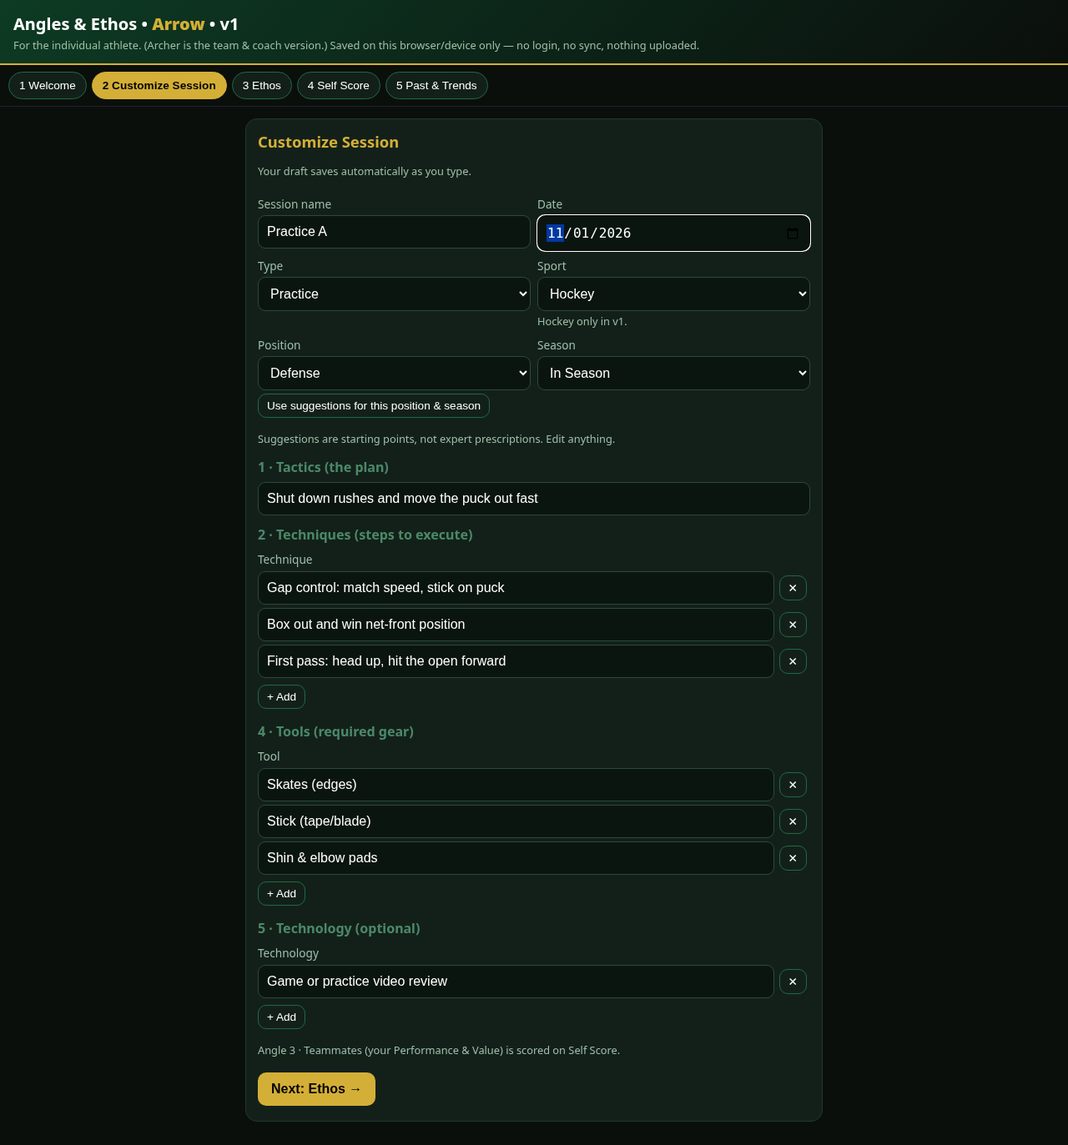
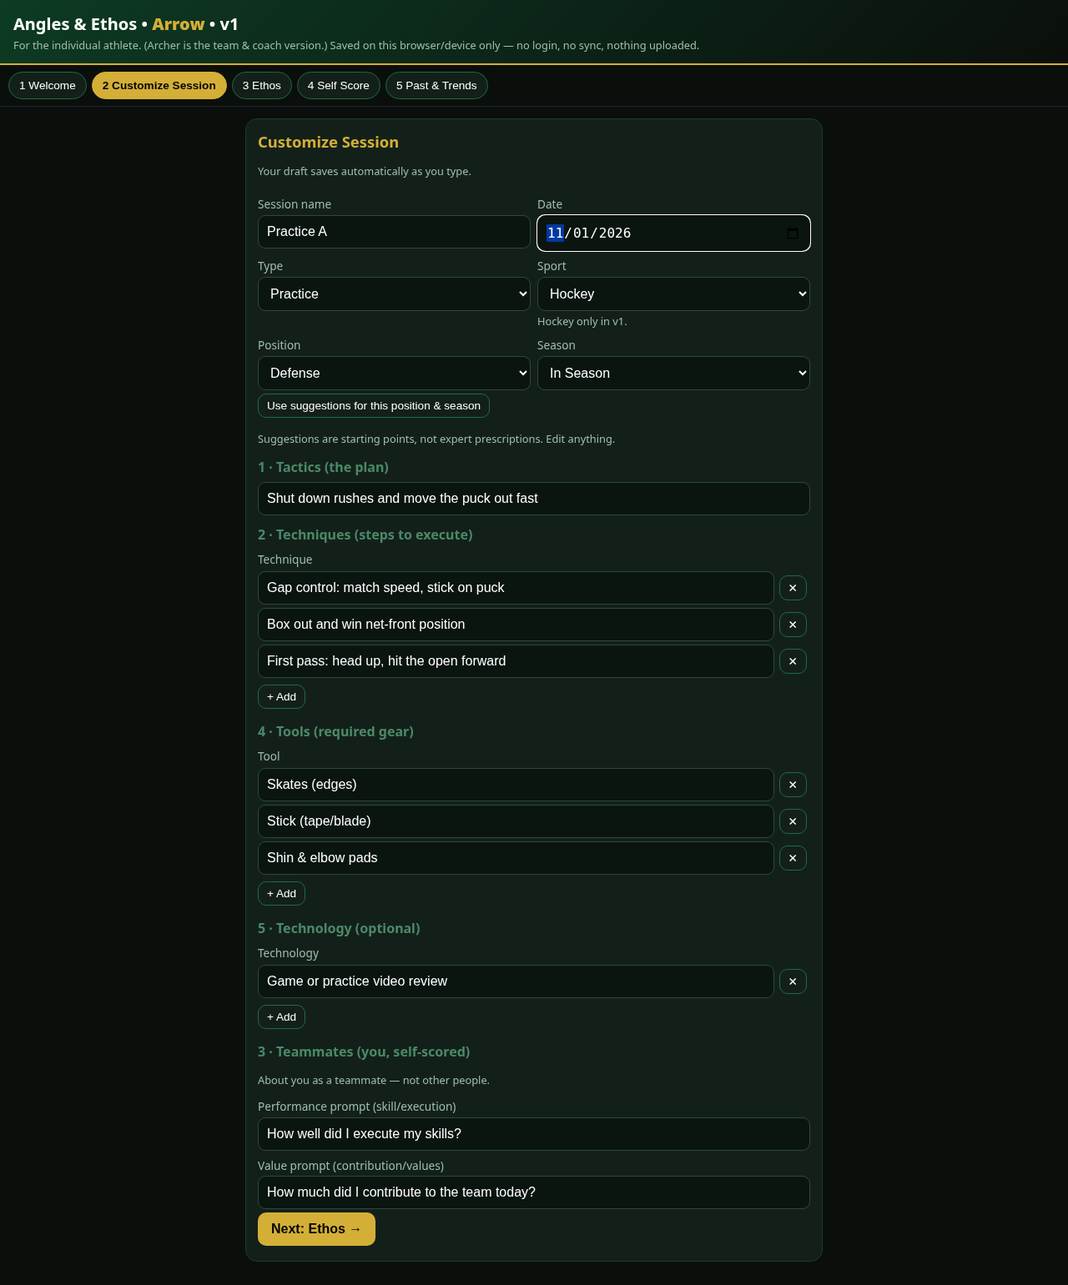
Add Teammates angle: explicit self Performance + Value, formula v2, legacy labeling

diff --git a/index.html b/index.html
@@ -53,17 +53,20 @@ Goalie:{
  'In Season':{tactic:'Track the puck and control rebounds',tech:['Set angle and depth before the shot','Rebound control into corners','Post-to-post push and seal'],tools:['Pads & blocker/glove','Mask','Goalie skates'],techn:['Save/rebound video review']},
  'Off Season':{tactic:'Build reaction, flexibility, and movement',tech:['Reaction ball / tracking drills','Hip mobility & flexibility','T-push & shuffle footwork'],tools:['Reaction ball','Mobility band','Training shoes'],techn:['Vision-training app']}}};
 let S=load();
-function blankDraft(){const s=SUG.Defense['In Season'];return {name:'',date:new Date().toISOString().slice(0,10),type:'Practice',sport:'Hockey',position:'Defense',season:'In Season',tactic:s.tactic,techniques:[...s.tech],tools:[...s.tools],techn:[...s.techn],scores:blankScores(3,3,1),notes:''}}
-function blankScores(nt,nto,nte){return {tech:Array(nt).fill(null),perf:null,ethos:Array(5).fill(null),tools:Array(nto).fill(null),techn:Array(nte).fill(null)}}
-function load(){try{const d=JSON.parse(localStorage.getItem(KEY));if(d&&d.v===1)return d}catch(e){}return {v:1,tab:'welcome',ethos:[...DEF_ETHOS],draft:blankDraft(),sessions:[],sel:{mode:'single',ids:[],from:'',to:''}}}
+function blankDraft(){const s=SUG.Defense['In Season'];return {name:'',date:new Date().toISOString().slice(0,10),type:'Practice',sport:'Hockey',position:'Defense',season:'In Season',tactic:s.tactic,techniques:[...s.tech],tools:[...s.tools],techn:[...s.techn],tmPerf:'How well did I execute my skills?',tmVal:'How much did I contribute to the team today?',scores:blankScores(3,3,1),notes:''}}
+function blankScores(nt,nto,nte){return {tech:Array(nt).fill(null),perf:null,val:null,ethos:Array(5).fill(null),tools:Array(nto).fill(null),techn:Array(nte).fill(null)}}
+function load(){try{const d=JSON.parse(localStorage.getItem(KEY));if(d&&d.v===1){d.sessions.forEach(x=>{if(x.sample&&!x.fv){x.scores.val=x.scores.perf;x.fv=2}nz(x)});if(d.draft.scores.val===undefined)d.draft.scores.val=null;if(!d.draft.tmPerf){d.draft.tmPerf='How well did I execute my skills?';d.draft.tmVal='How much did I contribute to the team today?'}return d}}catch(e){}return {v:1,tab:'welcome',ethos:[...DEF_ETHOS],draft:blankDraft(),sessions:[],sel:{mode:'single',ids:[],from:'',to:''}}}
+function nz(s){if(!s.fv)s.fv=(s.scores&&s.scores.val!==undefined)?2:1;s.results=calc(s.scores,s.fv);return s}
 function save(){localStorage.setItem(KEY,JSON.stringify(S))}
 const $=s=>document.querySelector(s);const esc=t=>String(t??'').replace(/[&<>"]/g,c=>({'&':'&amp;','<':'&lt;','>':'&gt;','"':'&quot;'}[c]));
 function toast(m){const t=$('#toast');t.textContent=m;t.style.display='block';clearTimeout(t._t);t._t=setTimeout(()=>t.style.display='none',2200)}
 function go(t){S.tab=t;save();render();scrollTo(0,0)}
 function avg(a){a=a.filter(x=>typeof x==='number');return a.length?a.reduce((p,c)=>p+c,0)/a.length:null}
 const f=x=>x==null?'—':(x>0?'+':'')+x.toFixed(2);
-function calc(sc){const tactics=avg(sc.tech),perf=sc.perf,value=avg(sc.ethos);const player=(tactics!=null&&perf!=null)?(tactics+perf)/2:null;
- return {tactics,perf,value,player,combined:(player!=null&&value!=null)?player+value:null,tools:avg(sc.tools),techn:avg(sc.techn)}}
+// fv 2 (current): Player=(Tactics+Perf+Value)/3, Combined=Player+Ethos. fv 1 (legacy, pre-Teammates): Value derived from Ethos, Player=(Tactics+Perf)/2, Combined=Player+Ethos.
+function calc(sc,fv=2){const tactics=avg(sc.tech),perf=sc.perf,ethos=avg(sc.ethos);let val=null,player=null;
+ if(fv===2){val=sc.val??null;player=(tactics!=null&&perf!=null&&val!=null)?(tactics+perf+val)/3:null}else player=(tactics!=null&&perf!=null)?(tactics+perf)/2:null;
+ return {fv,tactics,perf,val,ethos,player,combined:(player!=null&&ethos!=null)?player+ethos:null,tools:avg(sc.tools),techn:avg(sc.techn)}}
 function render(){
  applyTheme();
  $('#nav').innerHTML=TABS.map(([k,l])=>`<button role="tab" aria-selected="${S.tab===k}" onclick="go('${k}')">${l}</button>`).join('');
@@ -79,7 +82,7 @@ function vWelcome(){return `<div class="card"><h2>Welcome, athlete.</h2>
 <p>Angles are the part of the equation we fully own. We are often <i>assigned</i> our Allies on the BallField, BattleField, and BoardRoom Maps. And we are most often <i>stewards</i> of our Advantages (Talent and Treasure), not their sources. But the Angles — those are ours.</p>
 <h3>The 5 Angles</h3><ol>
 <li><b>Tactics</b> — the plan.</li><li><b>Techniques</b> — the steps to execute the plan.</li>
-<li><b>Teammates</b> — you as a teammate: your <b>Performance</b> (skill) and your <b>Value</b> (ethos, values). In Arrow you only score yourself.</li>
+<li><b>Teammates</b> — you as a teammate: your <b>Performance</b> (skill, execution) and your <b>Value</b> (contribution, values). In Arrow you score only yourself; your 5 Ethos principles are scored separately.</li>
 <li><b>Tools</b> — the required gear to compete.</li><li><b>Technology</b> — enhancements and enrichments. Helpful, not required.</li></ol>
 <button class="btn gold" onclick="go('session')">Build my first session →</button>
 <p class="note">Everything stays on this browser/device. Clearing browser data erases it — use Export on Past &amp; Trends to keep a backup.</p></div>`+vColors()}
@@ -94,7 +97,7 @@ function applySug(){const d=S.draft,s=SUG[d.position][d.season];if(!confirm(`Rep
  Object.assign(d,{tactic:s.tactic,techniques:[...s.tech],tools:[...s.tools],techn:[...s.techn]});d.scores=blankScores(3,s.tools.length,s.techn.length);save();render()}
 function repeatLast(){const last=[...S.sessions].filter(x=>!x.sample).sort((a,b)=>b.savedAt-a.savedAt)[0]||[...S.sessions].sort((a,b)=>b.savedAt-a.savedAt)[0];if(!last)return toast('No saved session yet');
  if(!confirm(`Copy the plan from "${last.name}" (${last.date})? Scores and notes start fresh.`))return;
- const p=last.plan;Object.assign(S.draft,{type:p.type,sport:p.sport,position:p.position,season:p.season,tactic:p.tactic,techniques:[...p.techniques],tools:[...p.tools],techn:[...p.techn],name:'',notes:'',date:new Date().toISOString().slice(0,10)});
+ const p=last.plan;Object.assign(S.draft,{tmPerf:p.tmPerf||S.draft.tmPerf,tmVal:p.tmVal||S.draft.tmVal,type:p.type,sport:p.sport,position:p.position,season:p.season,tactic:p.tactic,techniques:[...p.techniques],tools:[...p.tools],techn:[...p.techn],name:'',notes:'',date:new Date().toISOString().slice(0,10)});
  S.draft.scores=blankScores(p.techniques.length,p.tools.length,p.techn.length);save();render();toast('Plan copied — scores cleared')}
 function vSession(){const d=S.draft;const has=S.sessions.length>0;return `<div class="card"><h2>Customize Session</h2>
 <p class="note">Your draft saves automatically as you type.</p>
@@ -111,7 +114,9 @@ ${has?`<button class="btn ghost" id="repeat" onclick="repeatLast()">↻ Repeat l
 <h3>2 · Techniques (steps to execute)</h3>${listEd('techniques','Technique')}
 <h3>4 · Tools (required gear)</h3>${listEd('tools','Tool')}
 <h3>5 · Technology (optional)</h3>${listEd('techn','Technology')}
-<p class="note">Angle 3 · Teammates (your Performance &amp; Value) is scored on Self Score.</p>
+<h3>3 · Teammates (you, self-scored)</h3><p class="note">About you as a teammate — not other people.</p>
+<label for="tp">Performance prompt (skill/execution)</label><input id="tp" value="${esc(d.tmPerf)}" oninput="setF('tmPerf',this.value)">
+<label for="tv">Value prompt (contribution/values)</label><input id="tv" value="${esc(d.tmVal)}" oninput="setF('tmVal',this.value)">
 <button class="btn gold" onclick="go('ethos')">Next: Ethos →</button></div>`}
 function vEthos(){return `<div class="card"><h2>Ethos Customization</h2><p>Your 5 Ethos principles define your <b>Value</b> as a teammate. Edit to make them yours.</p>
 ${S.ethos.map((e,i)=>`<label for="e${i}">Ethos ${i+1}</label><input id="e${i}" value="${esc(e)}" oninput="S.ethos[${i}]=this.value;save()">`).join('')}
@@ -123,29 +128,30 @@ function setS(p,v){const [k,i]=p.split('.');const sc=S.draft.scores;if(i==null)s
 function missing(){const d=S.draft,sc=d.scores,m=[];if(!d.date)m.push('date');if(!d.tactic.trim())m.push('a Tactic');
  const tl=d.techniques.filter(t=>t.trim());if(!tl.length)m.push('at least one Technique');
  d.techniques.forEach((t,i)=>{if(t.trim()&&sc.tech[i]==null)m.push('Technique '+(i+1)+' score')});
- if(sc.perf==null)m.push('Self Performance');sc.ethos.forEach((e,i)=>{if(e==null)m.push('Ethos '+(i+1))});return m}
-function vScore(){const d=S.draft,sc=d.scores;const r=calc(clean(d).scores);const m=missing();
+ if(sc.perf==null)m.push('Teammates Performance');if(sc.val==null)m.push('Teammates Value');sc.ethos.forEach((e,i)=>{if(e==null)m.push('Ethos '+(i+1))});return m}
+function vScore(){const d=S.draft,sc=d.scores;const r=calc(clean(d).scores,2);const m=missing();
  return `<div class="card"><h2>Self Score</h2><p class="note">${esc(d.name||'Untitled')} · ${d.date} · ${d.type} · ${d.sport} – ${d.position} – ${d.season}<br>Tactic: <b>${esc(d.tactic)}</b></p>
 <p class="note">Scale: −1 Bad · 0 Average · +1 Good · +2 Excellent. Tap again to clear.</p>
 <h3>Techniques</h3>${d.techniques.map((t,i)=>t.trim()?`<label>${esc(t)}</label>${scale('tech.'+i,sc.tech[i])}`:'').join('')}
-<h3>Self Performance (skill)</h3><label>How well did I perform overall?</label>${scale('perf',sc.perf)}
-<h3>Ethos (Value)</h3>${S.ethos.map((e,i)=>`<label>${esc(e)}</label>${scale('ethos.'+i,sc.ethos[i])}`).join('')}
+<h3>Teammates · Self</h3><label>Performance (skill/execution): ${esc(d.tmPerf)}</label>${scale('perf',sc.perf)}
+<label>Value (contribution/values): ${esc(d.tmVal)}</label>${scale('val',sc.val)}
+<h3>Ethos (5 principles)</h3>${S.ethos.map((e,i)=>`<label>${esc(e)}</label>${scale('ethos.'+i,sc.ethos[i])}`).join('')}
 <h3>Tools <span class="note">(optional · scored separately, never affects Performance)</span></h3>${d.tools.map((t,i)=>t.trim()?`<label>${esc(t)}</label>${scale('tools.'+i,sc.tools[i],1)}`:'').join('')||'<p class="note">None listed.</p>'}
 <h3>Technology <span class="note">(optional · N/A if not used)</span></h3>${d.techn.map((t,i)=>t.trim()?`<label>${esc(t)}</label>${scale('techn.'+i,sc.techn[i],1)}`:'').join('')||'<p class="note">None listed — that’s fine.</p>'}
 <label for="nt">Notes (optional)</label><textarea id="nt" oninput="setF('notes',this.value)">${esc(d.notes)}</textarea>
-<h3>Results</h3><div class="res"><div>Tactics<b>${f(r.tactics)}</b></div><div>Performance<b>${f(r.perf)}</b></div><div>Player<b>${f(r.player)}</b></div><div>Value<b>${f(r.value)}</b></div><div>Combined<b>${f(r.combined)}</b></div><div>Tools / Tech<b style="font-size:1rem">${f(r.tools)} / ${f(r.techn)}</b></div></div>
-<p class="note"><b>Formulas:</b> Tactics = average of Technique scores · Player = (Tactics + Performance) ÷ 2 · Value = average of the 5 Ethos scores · Combined = Player + Value (range −2 to +4) · Tools and Technology = averages of scored items, N/A excluded, shown separately.</p>
+<h3>Results</h3><div class="res"><div>Tactics<b>${f(r.tactics)}</b></div><div>Performance<b>${f(r.perf)}</b></div><div>Value<b>${f(r.val)}</b></div><div>Player<b>${f(r.player)}</b></div><div>Ethos<b>${f(r.ethos)}</b></div><div>Combined<b>${f(r.combined)}</b></div><div>Tools / Tech<b style="font-size:1rem">${f(r.tools)} / ${f(r.techn)}</b></div></div>
+<p class="note"><b>Formulas (v2):</b> Tactics = average of Technique scores · Player = (Tactics + Teammates Performance + Teammates Value) ÷ 3 · Ethos = average of the 5 Ethos scores · Combined = Player + Ethos (range −2 to +4) · Tools and Technology = averages of scored items, N/A excluded, shown separately.</p>
 ${m.length?`<p class="warn" id="miss">Still needed: ${m.join(', ')}</p>`:''}
 <button class="btn ghost" onclick="go('ethos')">← Ethos</button><button class="btn gold" id="saveBtn" onclick="saveSession()">Save session 🔒</button>
 <button class="btn sm danger" onclick="if(confirm('Clear all scores and notes in this draft?')){S.draft.scores=blankScores(d.techniques.length,d.tools.length,d.techn.length);S.draft.notes='';save();render()}">Clear scores</button></div>`}
 function clean(d){const k=(arr,s)=>arr.map((t,i)=>[t.trim(),s[i]]).filter(x=>x[0]);const te=k(d.techniques,d.scores.tech),to=k(d.tools,d.scores.tools),tc=k(d.techn,d.scores.techn);
  const num=v=>typeof v==='number'?v:null;
- return {plan:{type:d.type,sport:d.sport,position:d.position,season:d.season,tactic:d.tactic.trim(),techniques:te.map(x=>x[0]),tools:to.map(x=>x[0]),techn:tc.map(x=>x[0])},
- scores:{tech:te.map(x=>x[1]),perf:d.scores.perf,ethos:[...d.scores.ethos],tools:to.map(x=>num(x[1])),techn:tc.map(x=>num(x[1]))},raw:{tools:to.map(x=>x[1]??'na'),techn:tc.map(x=>x[1]??'na')}}}
+ return {plan:{tmPerf:d.tmPerf,tmVal:d.tmVal,type:d.type,sport:d.sport,position:d.position,season:d.season,tactic:d.tactic.trim(),techniques:te.map(x=>x[0]),tools:to.map(x=>x[0]),techn:tc.map(x=>x[0])},
+ scores:{tech:te.map(x=>x[1]),perf:d.scores.perf,val:d.scores.val,ethos:[...d.scores.ethos],tools:to.map(x=>num(x[1])),techn:tc.map(x=>num(x[1]))},raw:{tools:to.map(x=>x[1]??'na'),techn:tc.map(x=>x[1]??'na')}}}
 function saveSession(){const m=missing();if(m.length){toast('Finish the required scores first');render();return}
- const d=S.draft,c=clean(d);const s={id:'s'+Date.now(),savedAt:Date.now(),name:d.name.trim()||`${d.type} ${d.date}`,date:d.date,plan:c.plan,ethos:[...S.ethos],scores:c.scores,gear:c.raw,notes:d.notes,results:calc(c.scores)};
+ const d=S.draft,c=clean(d);const s={id:'s'+Date.now(),savedAt:Date.now(),name:d.name.trim()||`${d.type} ${d.date}`,date:d.date,plan:c.plan,ethos:[...S.ethos],scores:c.scores,gear:c.raw,notes:d.notes,fv:2,results:calc(c.scores,2)};
  s.ethosSnapshot=Object.freeze([...S.ethos]);S.sessions.push(s);
- const p=c.plan;S.draft={...blankDraft(),position:p.position,season:p.season,tactic:p.tactic,techniques:[...p.techniques],tools:[...p.tools],techn:[...p.techn],type:p.type};
+ const p=c.plan;S.draft={...blankDraft(),tmPerf:d.tmPerf,tmVal:d.tmVal,position:p.position,season:p.season,tactic:p.tactic,techniques:[...p.techniques],tools:[...p.tools],techn:[...p.techn],type:p.type};
  S.draft.scores=blankScores(p.techniques.length,p.tools.length,p.techn.length);S.sel={mode:'single',ids:[s.id],from:'',to:''};save();toast('Session saved & locked 🔒');go('past')}
 function selected(){const L=[...S.sessions].sort((a,b)=>a.date.localeCompare(b.date)||a.savedAt-b.savedAt),q=S.sel;
  if(q.mode==='range')return L.filter(s=>(!q.from||s.date>=q.from)&&(!q.to||s.date<=q.to));return L.filter(s=>q.ids.includes(s.id))}
@@ -157,11 +163,11 @@ function chart(sel,series,min,max,title){if(!sel.length)return '';const W=640,H=
  sel.forEach((s,i)=>g+=`<text x="${x(i)}" y="${H-10}" fill="#9fbfa9" font-size="10" text-anchor="middle">${s.date.slice(5)}</text>`);
  return `<h3>${title}</h3><div class="legend">${series.map(([k,c,l])=>`<span><i style="background:${c}"></i>${l}</span>`).join('')}</div><svg viewBox="0 0 ${W} ${H}" role="img" aria-label="${title}">${g}</svg>`}
 function detail(s){const r=s.results,sc=s.scores,p=s.plan,lab=v=>v==null||v==='na'?'N/A':(v>0?'+':'')+v;
- return `<div class="sess"><b>${esc(s.name)}</b> <span class="lock">🔒 locked</span>${s.sample?' <span class="note">(fictional sample)</span>':''}<div class="note">${s.date} · ${p.type} · ${p.sport} – ${p.position} – ${p.season}</div>
-<p>Tactic: ${esc(p.tactic)}</p><ul>${p.techniques.map((t,i)=>`<li>${esc(t)}: ${lab(sc.tech[i])}</li>`).join('')}<li>Self Performance: ${lab(sc.perf)}</li></ul>
+ return `<div class="sess"><b>${esc(s.name)}</b> <span class="lock">🔒 locked</span> <span class="note">${s.fv===2?'formula v2':'legacy v1 formula: no Teammates Value; Player = (Tactics + Perf) ÷ 2'}</span>${s.sample?' <span class="note">(fictional sample)</span>':''}<div class="note">${s.date} · ${p.type} · ${p.sport} – ${p.position} – ${p.season}</div>
+<p>Tactic: ${esc(p.tactic)}</p><ul>${p.techniques.map((t,i)=>`<li>${esc(t)}: ${lab(sc.tech[i])}</li>`).join('')}<li>Teammates Performance: ${lab(sc.perf)}</li>${s.fv===2?`<li>Teammates Value: ${lab(sc.val)}</li>`:''}</ul>
 <p class="note">Ethos (as worded then):</p><ul>${s.ethos.map((e,i)=>`<li>${esc(e)}: ${lab(sc.ethos[i])}</li>`).join('')}</ul>
 <p class="note">Tools: ${p.tools.map((t,i)=>esc(t)+' '+lab(s.gear.tools[i])).join(' · ')||'none'}<br>Technology: ${p.techn.map((t,i)=>esc(t)+' '+lab(s.gear.techn[i])).join(' · ')||'none'}</p>
-<div class="res"><div>Tactics<b>${f(r.tactics)}</b></div><div>Perf<b>${f(r.perf)}</b></div><div>Player<b>${f(r.player)}</b></div><div>Value<b>${f(r.value)}</b></div><div>Combined<b>${f(r.combined)}</b></div></div>
+<div class="res"><div>Tactics<b>${f(r.tactics)}</b></div><div>Perf<b>${f(r.perf)}</b></div><div>Value<b>${s.fv===2?f(r.val):'n/a (legacy)'}</b></div><div>Player<b>${f(r.player)}</b></div><div>Ethos<b>${f(r.ethos)}</b></div><div>Combined<b>${f(r.combined)}</b></div></div>
 ${s.notes?`<p class="note">Notes: ${esc(s.notes)}</p>`:''}<button class="btn sm danger" onclick="delS('${s.id}')">Delete</button></div>`}
 function delS(id){const s=S.sessions.find(x=>x.id===id);if(!confirm(`Delete "${s.name}" permanently?`))return;S.sessions=S.sessions.filter(x=>x.id!==id);S.sel.ids=S.sel.ids.filter(x=>x!==id);save();render()}
 function vPast(){const L=[...S.sessions].sort((a,b)=>b.date.localeCompare(a.date)||b.savedAt-a.savedAt),q=S.sel,sel=selected();
@@ -173,9 +179,9 @@ ${q.mode==='range'?`<div class="row"><div><label for="fr">From</label><input id=
  L.map(s=>`<div class="sess"><label><input type="${q.mode==='single'?'radio':'checkbox'}" name="ps" ${q.ids.includes(s.id)?'checked':''} onchange="pick('${s.id}',this.checked)"> ${esc(s.name)} · ${s.date} ${s.sample?'<span class="note">(sample)</span>':''}</label></div>`).join('')}
 <p class="note">${sel.length} session(s) selected.</p></div>
 ${sel.length?`<div class="card"><h2>${sel.length===1?'Session':'Big picture'}</h2>
-${sel.length>1?`<div class="res"><div>Avg Tactics<b>${f(a('tactics'))}</b></div><div>Avg Perf<b>${f(a('perf'))}</b></div><div>Avg Value<b>${f(a('value'))}</b></div><div>Avg Combined<b>${f(a('combined'))}</b></div><div>Avg Tools<b>${f(a('tools'))}</b></div><div>Avg Tech<b>${f(a('techn'))}</b></div></div>`:''}
-${chart(sel,[['tactics','#2fae66','Tactics'],['perf','#5ec8f2','Performance'],['value','#d4af37','Value']],-1,2,'Tactics · Performance · Value')}
-${chart(sel,[['player','#ffffff','Player'],['combined','#ff7f6b','Combined']],-2,4,'Player · Combined')}
+${sel.length>1?`<div class="res"><div>Avg Tactics<b>${f(a('tactics'))}</b></div><div>Avg Perf<b>${f(a('perf'))}</b></div><div>Avg Value<b>${f(a('val'))}</b></div><div>Avg Ethos<b>${f(a('ethos'))}</b></div><div>Avg Tools<b>${f(a('tools'))}</b></div><div>Avg Tech<b>${f(a('techn'))}</b></div></div>`:''}
+${chart(sel,[['tactics','#2fae66','Tactics'],['perf','#5ec8f2','Teammates Performance'],['val','#ff9ad5','Teammates Value'],['ethos','#d4af37','Ethos']],-1,2,'Tactics · Teammates Performance/Value · Ethos')}
+${(()=>{const n=sel.filter(s=>s.fv===2),o=sel.filter(s=>s.fv!==2);return (n.length?(n.length>1?`<p class="note">v2 averages: Player ${f(avg(n.map(s=>s.results.player)))} · Combined ${f(avg(n.map(s=>s.results.combined)))}</p>`:'')+chart(n,[['player','#ffffff','Player'],['combined','#ff7f6b','Combined']],-2,4,'Player · Combined (formula v2)'):'')+(o.length?chart(o,[['player','#bbbbbb','Player'],['combined','#c86a5a','Combined']],-2,4,'Player · Combined (legacy v1 formula — not comparable to v2)'):'')})()}
 ${chart(sel,[['tools','#c9a0ff','Tools'],['techn','#7fd1c7','Technology']],-1,2,'Gear (separate — N/A excluded)')}
 ${sel.length===1?detail(sel[0]):sel.slice().reverse().map(detail).join('')}</div>`:`<div class="card"><p>Select a session or date range above to see results.</p></div>`}
 <div class="card">${tools()}</div>`}
@@ -184,12 +190,12 @@ function tools(){return `<h3>Data</h3><p class="note">Saved on this browser/devi
 <button class="btn sm ghost" onclick="exp()">Export JSON</button><label class="btn sm ghost" style="display:inline-block;color:#fff">Import JSON<input type="file" accept=".json" hidden onchange="imp(this.files[0])"></label>`}
 function loadSample(){if(S.sessions.some(s=>s.sample))return toast('Samples already loaded');const s=SUG.Defense['In Season'];
  const data=[[0,0,1,0,[0,1,1,0,1],1],[1,0,1,1,[1,1,1,0,1],1],[0,1,1,0,[1,1,2,1,1],0],[1,1,2,1,[1,2,1,1,2],1],[2,1,1,1,[2,1,2,1,2],'na']];
- data.forEach((d,i)=>{const dt=new Date(2026,9,5+i*4).toISOString().slice(0,10);const sc={tech:d.slice(0,3),perf:d[3],ethos:d[4],tools:[1,0,1],techn:[typeof d[5]==='number'?d[5]:null]};
-  S.sessions.push({id:'sample'+i,sample:true,savedAt:i,name:`Sample practice ${i+1}`,date:dt,plan:{type:'Practice',sport:'Hockey',position:'Defense',season:'In Season',tactic:s.tactic,techniques:[...s.tech],tools:[...s.tools],techn:[...s.techn]},ethos:[...DEF_ETHOS],scores:sc,gear:{tools:[1,0,1],techn:[d[5]]},notes:'Fictional sample data.',results:calc(sc)})});
+ data.forEach((d,i)=>{const dt=new Date(2026,9,5+i*4).toISOString().slice(0,10);const sc={tech:d.slice(0,3),perf:d[3],val:Math.min(2,d[3]+(i%2)),ethos:d[4],tools:[1,0,1],techn:[typeof d[5]==='number'?d[5]:null]};
+  S.sessions.push({id:'sample'+i,sample:true,savedAt:i,name:`Sample practice ${i+1}`,date:dt,plan:{type:'Practice',sport:'Hockey',position:'Defense',season:'In Season',tactic:s.tactic,techniques:[...s.tech],tools:[...s.tools],techn:[...s.techn]},ethos:[...DEF_ETHOS],scores:sc,gear:{tools:[1,0,1],techn:[d[5]]},notes:'Fictional sample data.',fv:2,results:calc(sc,2)})});
  S.sel={mode:'pick',ids:S.sessions.filter(x=>x.sample).map(x=>x.id),from:'',to:''};save();render();toast('Fictional samples added')}
 function rmSample(){if(!S.sessions.some(s=>s.sample))return toast('No samples');if(!confirm('Remove sample sessions? Your real sessions stay.'))return;S.sessions=S.sessions.filter(s=>!s.sample);S.sel.ids=S.sel.ids.filter(i=>!i.startsWith('sample'));save();render()}
 function exp(){const b=new Blob([JSON.stringify(S,null,1)],{type:'application/json'});const a=document.createElement('a');a.href=URL.createObjectURL(b);a.download='arrow-backup.json';a.click()}
-function imp(file){if(!file)return;file.text().then(t=>{const d=JSON.parse(t);if(d.v!==1||!Array.isArray(d.sessions))throw 0;const ids=new Set(S.sessions.map(s=>s.id));let n=0;d.sessions.forEach(s=>{if(!ids.has(s.id)){S.sessions.push(s);n++}});save();render();toast(n+' session(s) imported')}).catch(()=>toast('That file isn’t an Arrow backup'))}
+function imp(file){if(!file)return;file.text().then(t=>{const d=JSON.parse(t);if(d.v!==1||!Array.isArray(d.sessions))throw 0;const ids=new Set(S.sessions.map(s=>s.id));let n=0;d.sessions.forEach(s=>{if(!ids.has(s.id)){S.sessions.push(nz(s));n++}});save();render();toast(n+' session(s) imported')}).catch(()=>toast('That file isn’t an Arrow backup'))}
 
 const THEMES=[['Classic Arrow (default)','#1e6b42','#0d3b24','#d4af37'],['Navy & Gold','#1f3f8a','#0f1f45','#f2c230'],['Crimson & Silver','#a3162b','#4a0a14','#c9ced6'],['Royal & White','#2456c9','#0f2459','#ffffff'],['Orange & Black','#d9620f','#3a1a05','#ffb347'],['Purple & Gold','#5b2a9e','#2a1250','#f0c330'],['Teal & Sky','#0f8a8a','#063d3d','#8fd8ff'],['Maroon & Cream','#7a1f2b','#3a0d14','#f2e2b8']];
 function lum(h){const c=[1,3,5].map(i=>{let v=parseInt(h.substr(i,2),16)/255;return v<=.03928?v/12.92:Math.pow((v+.055)/1.055,2.4)});return .2126*c[0]+.7152*c[1]+.0722*c[2]}

diff --git a/test.py b/test.py
@@ -20,8 +20,10 @@ with sync_playwright() as p:
     def score(n):
       for g in range(3): pg.locator('.sc').nth(g).locator('button').nth(2).click()
       pg.locator('.sc').nth(3).locator('button').nth(n).click()
-      for g in range(4,9): pg.locator('.sc').nth(g).locator('button').nth(n).click()
-      pg.locator('.sc').nth(12).locator('button').nth(4).click()  # tech N/A
+      pg.click('#saveBtn'); assert 'Teammates Value' in pg.inner_text('#miss')
+      pg.locator('.sc').nth(4).locator('button').nth(n).click()
+      for g in range(5,10): pg.locator('.sc').nth(g).locator('button').nth(n).click()
+      pg.locator('.sc').nth(13).locator('button').nth(4).click()  # tech N/A
     score(2); assert not pg.is_visible('#miss')
     pg.screenshot(path=f'shots/arrow-{name}-score.png',full_page=True)
     pg.click('#saveBtn'); pg.wait_for_timeout(300)
@@ -35,6 +37,7 @@ with sync_playwright() as p:
     pg.click('text=Pick sessions'); pg.click('text=Load sample sessions')
     assert '5 session(s) selected' in pg.content()
     pg.screenshot(path=f'shots/arrow-{name}-trends.png',full_page=True)
+    assert 'Teammates Value' in pg.content() and 'formula v2' in pg.content()
     pg.click('text=One session'); pg.reload()
     assert pg.evaluate("JSON.parse(localStorage.ae_arrow_v1).sessions.length")==7
     assert pg.evaluate("JSON.parse(localStorage.ae_arrow_v1).sessions[0].results.techn")==None
@@ -56,3 +59,14 @@ with sync_playwright() as p:
   pg.screenshot(path='shots/arrow-mobile-ethos-themed.png',full_page=True)
   assert pg.evaluate('document.documentElement.scrollWidth')<=390
   print('theme ok',e)
+
+with sync_playwright() as p:
+  b=p.chromium.launch(executable_path='/usr/bin/google-chrome',args=['--no-sandbox'])
+  pg=b.new_page(); e=[]; pg.on('pageerror',lambda x:e.append(str(x)))
+  pg.goto(url); pg.click('text=Build my first session')
+  pg.evaluate("""()=>{const d=JSON.parse(localStorage.ae_arrow_v1);d.sessions=[{id:'old1',savedAt:1,name:'Old log',date:'2026-10-01',plan:{type:'Practice',sport:'Hockey',position:'Defense',season:'In Season',tactic:'T',techniques:['a'],tools:[],techn:[]},ethos:['e1','e2','e3','e4','e5'],scores:{tech:[1],perf:1,ethos:[0,0,0,0,0],tools:[],techn:[]},gear:{tools:[],techn:[]},notes:'',results:{tactics:1,perf:1,value:0,player:1,combined:1}}];d.sel={mode:'single',ids:['old1']};d.tab='past';localStorage.ae_arrow_v1=JSON.stringify(d)}""")
+  pg.reload(); c=pg.content()
+  assert 'legacy v1 formula' in c and 'n/a (legacy)' in c, 'legacy label'
+  assert pg.evaluate("JSON.parse(localStorage.ae_arrow_v1).sessions[0].scores.val")==None
+  pg.screenshot(path='shots/arrow-legacy.png',full_page=True)
+  print('legacy ok',e)
